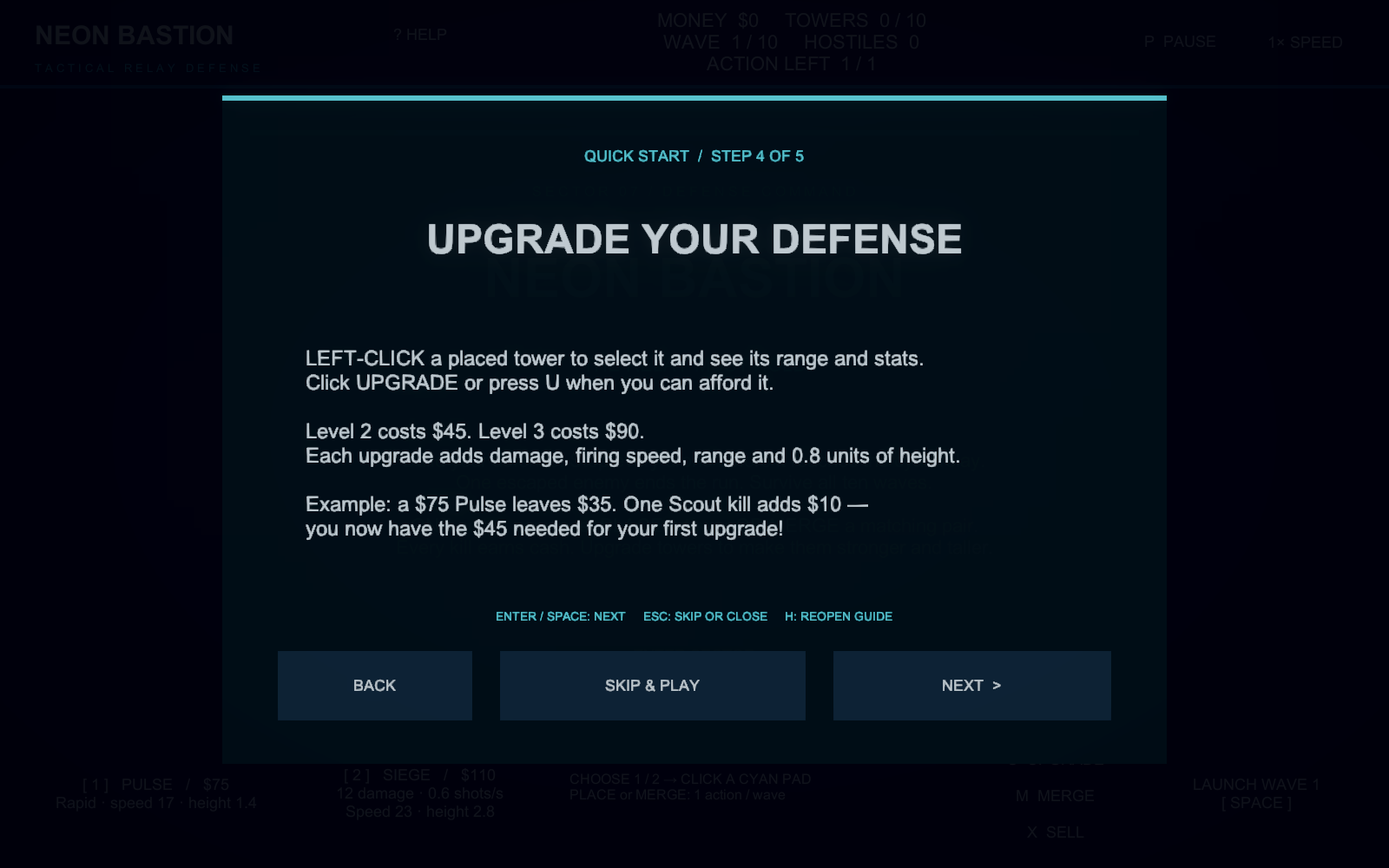
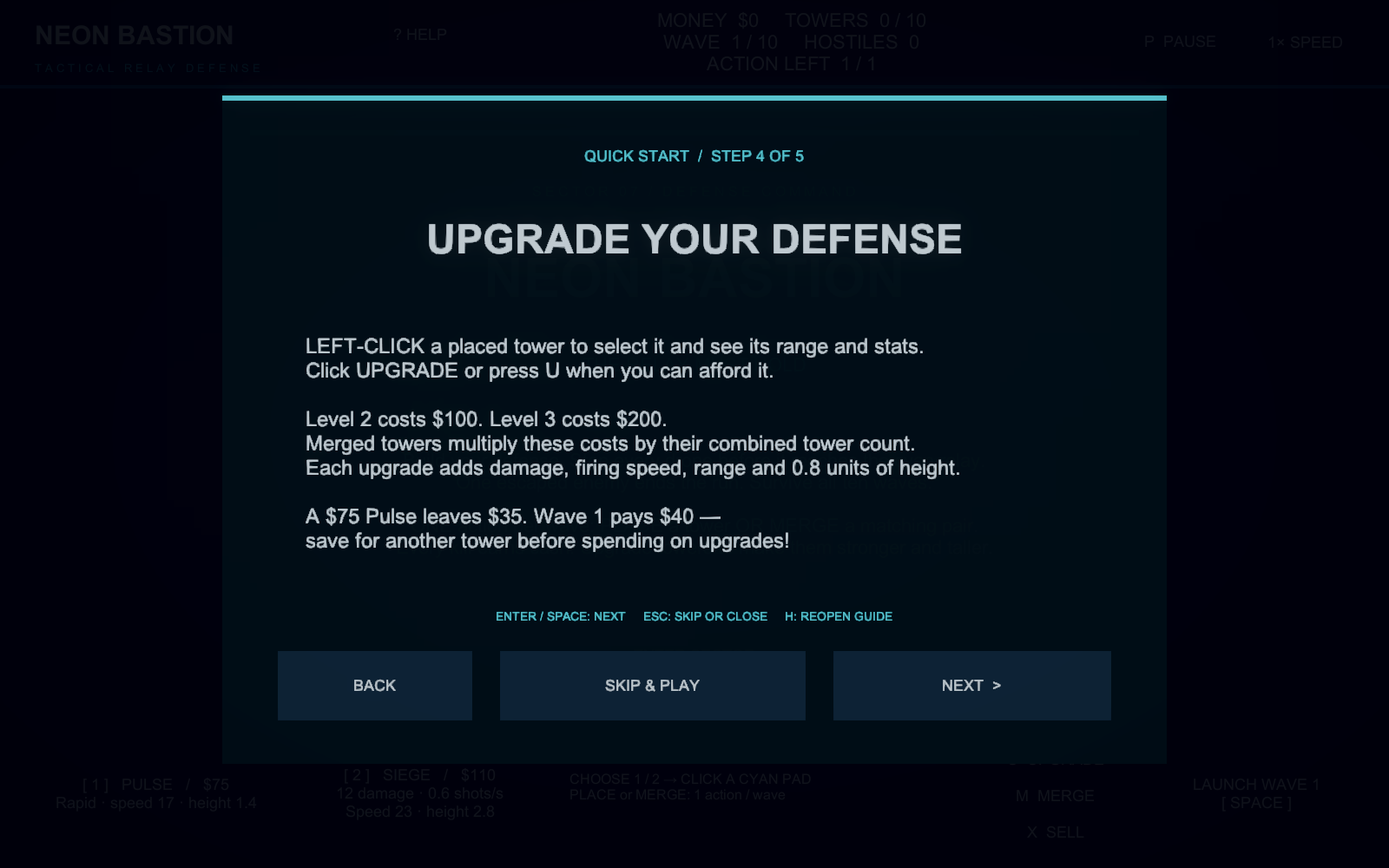
Tighten kill rewards and make tower upgrades a saving decision

Changed region(s): [[0.2188, 0.372, 0.6875, 0.651]]

diff --git a/Assets/Defense/Editor/DefenseValidation.cs b/Assets/Defense/Editor/DefenseValidation.cs
@@ -81,10 +81,10 @@ public static class DefenseValidation
                         "Tutorial explicitly explains selecting and left-clicking a cyan pad to place a tower");
                     back.onClick.Invoke();Check(game.HUD.TutorialPage==0,"Tutorial Back returns to the previous explanation");
                     next.onClick.Invoke();next.onClick.Invoke();
-                    Check(game.HUD.TutorialPage==2 && guideText.text.Contains("$10") && guideText.text.Contains("MONEY"),
+                    Check(game.HUD.TutorialPage==2 && guideText.text.Contains("$4") && guideText.text.Contains("MONEY"),
                         "Tutorial explains kill rewards and the money display");
                     next.onClick.Invoke();
-                    Check(game.HUD.TutorialPage==3 && guideText.text.Contains("$45") && guideText.text.Contains("$90") && guideText.text.Contains("0.8"),
+                    Check(game.HUD.TutorialPage==3 && guideText.text.Contains("$100") && guideText.text.Contains("$200") && guideText.text.Contains("0.8"),
                         "Tutorial explains upgrade prices and stronger, taller towers");
                     if(Array.IndexOf(Environment.GetCommandLineArgs(),"-captureDefense")>=0) CaptureTo("TUTORIAL_PREVIEW.png");
                     next.onClick.Invoke();
@@ -127,19 +127,21 @@ public static class DefenseValidation
                     game.LaunchWave();game.enabled=false;
                     Check(game.PlacementsRemaining==0,"Launching a wave does not grant a second placement");
                     DefenseEnemy scout=game.SpawnEnemy(EnemyKind.Scout);scout.TakeDamage(1000);
-                    Check(game.Credits==45 && game.KillEarnings==10 && game.Kills==1,"Scout kill pays exactly $10");
-                    scout.TakeDamage(1000);Check(game.Credits==45 && game.Kills==1,"A defeated enemy cannot pay twice");
+                    Check(game.Credits==39 && game.KillEarnings==4 && game.Kills==1,"Scout kill pays exactly $4");
+                    scout.TakeDamage(1000);Check(game.Credits==39 && game.Kills==1,"A defeated enemy cannot pay twice");
+                    game.UpgradeSelected();Check(testTower.Level==1 && game.Credits==39,"One kill cannot fund an immediate upgrade");
+                    for(int i=0;i<24;i++) game.SpawnEnemy(EnemyKind.Scout).TakeDamage(1000);
                     float oldHeight=testTower.Height,oldDamage=testTower.Damage,oldRate=testTower.FireRate,oldRange=testTower.Range;
                     game.SelectTower(testTower);game.UpgradeSelected();
-                    Check(testTower.Level==2 && game.Credits==0,"Kill money purchases an upgrade for $45");
+                    Check(testTower.Level==2 && game.Credits==35,"Kill money purchases an upgrade for $100");
                     Check(Mathf.Abs(testTower.Height-oldHeight-.8f)<.001f && Mathf.Abs(testTower.Muzzle.parent.localPosition.y-testTower.Height)<.001f,"Upgrade visibly raises the turret and muzzle by 0.8 units");
                     Check(testTower.Damage>oldDamage && testTower.FireRate>oldRate && testTower.Range>oldRange,"Upgrade increases damage, fire rate and range");
                     DefenseEnemy runner=game.SpawnEnemy(EnemyKind.Runner),armored=game.SpawnEnemy(EnemyKind.Armored),boss=game.SpawnEnemy(EnemyKind.Siege);
                     Check(runner.Speed>scout.Speed && armored.Speed<scout.Speed && armored.MaxHealth>scout.MaxHealth,"Enemy types have different speed and HP");
-                    runner.TakeDamage(1000);Check(game.Credits==15,"Runner kill pays $15");
-                    armored.TakeDamage(1000);Check(game.Credits==40,"Armored kill pays $25");
-                    boss.TakeDamage(1000);Check(game.Credits==140 && game.KillEarnings==150,"Siege kill pays $100 and total kill earnings are tracked");
-                    Check(!game.TryPlaceAt(game.Pads[3]) && game.Credits==140,"Even ample kill money cannot bypass the one-tower limit during combat");
+                    runner.TakeDamage(1000);Check(game.Credits==40,"Runner kill pays $5");
+                    armored.TakeDamage(1000);Check(game.Credits==48,"Armored kill pays $8");
+                    boss.TakeDamage(1000);Check(game.Credits==78 && game.KillEarnings==143,"Siege kill pays $30 and total kill earnings are tracked");
+                    Check(!game.TryPlaceAt(game.Pads[3]) && game.Credits==78,"Even kill money cannot bypass the one-tower limit during combat");
                     testTower.enabled=false;game.enabled=true;Time.timeScale=10;due=now+.05;stage++;break;
                 case 1:
                     // Focused transition test only: clear scheduled enemies to exercise the wave boundary.
@@ -147,17 +149,19 @@ public static class DefenseValidation
                     if(game.State!=DefenseState.Building) { due=now+.05;return; }
                     Time.timeScale=1;game.enabled=false;
                     Check(game.Wave==1 && game.PlacementWave==2 && game.PlacementsRemaining==1,"Clearing a wave unlocks exactly one placement for the next wave");
-                    Check(game.Credits==240,"All ten training-wave kills pay correctly and there is no free wave-clear money");
+                    Check(game.Credits==118,"All ten training-wave kills pay correctly and there is no free wave-clear money");
                     game.Choose(TowerKind.Siege);Check(game.TryPlaceAt(game.Pads[3]),"Next wave permits buying one additional tower");
                     DefenseTower siege=game.SelectedTower;
                     Check(testTower.FireRate!=siege.FireRate && testTower.ProjectileSpeed!=siege.ProjectileSpeed && testTower.Height!=siege.Height,"Tower types still differ in fire rate, projectile speed and height");
                     game.SellSelected();
-                    Check(game.Credits==207 && game.Towers.Count==1 && game.PlacementsRemaining==0,"Selling refunds 70 percent but does not restore the wave allowance");
-                    Check(!game.TryPlaceAt(game.Pads[3]) && game.Credits==207,"Sell-and-rebuild cannot bypass the one-per-wave rule");
+                    Check(game.Credits==85 && game.Towers.Count==1 && game.PlacementsRemaining==0,"Selling refunds 70 percent but does not restore the wave allowance");
+                    Check(!game.TryPlaceAt(game.Pads[3]) && game.Credits==85,"Sell-and-rebuild cannot bypass the one-per-wave rule");
                     game.SelectTower(testTower);game.SellSelected();Check(game.Towers.Count==1,"Cannot strand the player by selling their only tower after using the allowance");
+                    game.LaunchWave();
+                    while(game.Credits<testTower.UpgradeCost) game.SpawnEnemy(EnemyKind.Truck).TakeDamage(10000);
                     game.UpgradeSelected();float maxHeight=testTower.Height;
-                    Check(testTower.Level==3 && game.Credits==117 && maxHeight>2.9f,"A second upgrade spends $90 and makes the tower taller again");
-                    game.UpgradeSelected();Check(testTower.Level==3 && game.Credits==117,"Maximum level cannot consume money or grow indefinitely");
+                    Check(testTower.Level==3 && game.Credits==5 && maxHeight>2.9f,"A second upgrade spends $200 and makes the tower taller again");
+                    game.UpgradeSelected();Check(testTower.Level==3 && game.Credits==5,"Maximum level cannot consume money or grow indefinitely");
                     game.LaunchWave();Check(game.PlacementsRemaining==0 && game.Wave==2,"Wave-2 launch preserves its already-used setup allowance");
                     game.StartGame();game.LaunchWave();
                     testEnemy=game.SpawnEnemy(EnemyKind.Scout);testEnemy.SetDistance(9);testEnemy.enabled=false;
@@ -167,7 +171,7 @@ public static class DefenseValidation
                     Check(projectile.Body.useGravity && !projectile.Body.isKinematic,"Projectiles use dynamic Rigidbody gravity");
                     simulatedDue=Time.time+.8f;due=now+.1;stage++;break;
                 case 2:
-                    Check(game.Kills==1 && game.Credits==120,"An actual projectile collision kills an enemy and pays its money reward");
+                    Check(game.Kills==1 && game.Credits==114,"An actual projectile collision kills an enemy and pays its money reward");
                     DefenseEnemy motorcycle=game.SpawnEnemy(EnemyKind.Motorcycle),truck=game.SpawnEnemy(EnemyKind.Truck);
                     Check(motorcycle.Speed>3.9f && motorcycle.MaxHealth==6 && truck.MaxHealth==160 && truck.Speed<1.25f,
                         "Motorcycles are fast and trucks have 160 base HP at a slower speed");
@@ -176,9 +180,9 @@ public static class DefenseValidation
                         Resources.Load<Mesh>("DefenseMeshes/Wheel")!=null,
                         "Vehicles have distinct models, fitted box hitboxes and authored wheel meshes");
                     if(Array.IndexOf(Environment.GetCommandLineArgs(),"-captureDefense")>=0) CaptureVehicles(motorcycle,truck);
-                    motorcycle.TakeDamage(10000);Check(game.Credits==140,"Motorcycle kill pays $20");
-                    truck.TakeDamage(10000);Check(game.Credits==260,"High-HP truck kill pays $120");
-                    truck.TakeDamage(10000);Check(game.Credits==260,"Truck payout cannot be claimed twice");
+                    motorcycle.TakeDamage(10000);Check(game.Credits==120,"Motorcycle kill pays $6");
+                    truck.TakeDamage(10000);Check(game.Credits==160,"High-HP truck kill pays $40");
+                    truck.TakeDamage(10000);Check(game.Credits==160,"Truck payout cannot be claimed twice");
                     int total=0,scouts=0;bool hasBike=false,hasTruck=false;
                     for(int wave=1;wave<=DefenseGame.TotalWaves;wave++)
                         foreach(EnemyKind kind in DefenseGame.WavePlan(wave))
@@ -294,13 +298,14 @@ public static class DefenseValidation
             "Merge grows real geometry and raises combat stats");
         Check(game.Credits==money && game.WaveActionsRemaining==0 && game.LastWaveAction==WaveAction.Merge,
             "Successful merge spends the wave action and no extra cash");
-        game.SpawnEnemy(EnemyKind.Truck).TakeDamage(10000);money=game.Credits;
+        while(game.Credits<target.UpgradeCost) game.SpawnEnemy(EnemyKind.Truck).TakeDamage(10000);money=game.Credits;
         game.Choose(TowerKind.Pulse);
         Check(money>=75 && !game.TryPlaceAt(game.Pads[3]) && game.Credits==money,
             "After MERGE, placing a tower is blocked even when money and a pad are available");
         DefenseTower third=TestTower(TowerKind.Pulse,5);
         Check(!game.TryMergeTowers(target,third) && third.MergedUnits==1 && game.WaveActionsRemaining==0,
             "Second merge in the same wave is blocked");
+        Check(target.UpgradeCost==400,"Two-unit merged tower charges double the level-3 upgrade price");
         game.SelectTower(target);game.UpgradeSelected();
         Check(target.Level==3 && game.WaveActionsRemaining==0,"Paid cash upgrades remain available after the wave action is used");
         Ray ray=game.View.ScreenPointToRay(game.View.WorldToScreenPoint(target.transform.position+Vector3.up*target.Height));

diff --git a/Assets/Defense/DefenseHUD.cs b/Assets/Defense/DefenseHUD.cs
@@ -23,8 +23,8 @@ public class DefenseHUD : MonoBehaviour
     private static readonly string[] TutorialBodies={
         "You start with $110.\n\nPULSE — $75: rapid fire, useful against Scouts and motorcycles.\nSIEGE — $110: 12-damage shells, one shot every 1.67 seconds.\n\nClick a tower card at the bottom, or press 1 for Pulse / 2 for Siege.\nFor your first tower, try a Pulse on the gold START HERE pad.\nWave 1 is a slower training wave; upgrades are optional.",
         "Move the pointer over a glowing CYAN HEXAGON on the board.\nLEFT-CLICK the pad to place your selected tower.\n\nPlacing a tower uses this wave's action. Choose PLACE or MERGE — ONE shared action; you cannot do both.\nRoads, unmarked ground and occupied pads cannot take a new tower.\n\nPress SPACE or LAUNCH WAVE when your defense is ready.\nClearing the wave unlocks ONE new action for the next wave.",
-        "Every defeated enemy immediately adds cash to MONEY at the top.\nWatch for the gold +$ reward above the enemy.\n\nScout $10  /  Runner $15  /  Motorcycle $20\nArmored $25  /  Siege $100  /  Truck $120\n\nSave cash to buy your next wave's tower or improve an existing one.\nUnspent money carries over. There is no free wave-clear bonus.",
-        "LEFT-CLICK a placed tower to select it and see its range and stats.\nClick UPGRADE or press U when you can afford it.\n\nLevel 2 costs $45. Level 3 costs $90.\nEach upgrade adds damage, firing speed, range and 0.8 units of height.\n\nExample: a $75 Pulse leaves $35. One Scout kill adds $10 —\nyou now have the $45 needed for your first upgrade!",
+        "Every defeated enemy immediately adds cash to MONEY at the top.\nWatch for the gold +$ reward above the enemy.\n\nScout $4  /  Runner $5  /  Motorcycle $6\nArmored $8  /  Siege $30  /  Truck $40\n\nSave cash to buy your next wave's tower or improve an existing one.\nUnspent money carries over. There is no free wave-clear bonus.",
+        "LEFT-CLICK a placed tower to select it and see its range and stats.\nClick UPGRADE or press U when you can afford it.\n\nLevel 2 costs $100. Level 3 costs $200.\nMerged towers multiply these costs by their combined tower count.\nEach upgrade adds damage, firing speed, range and 0.8 units of height.\n\nA $75 Pulse leaves $35. Wave 1 pays $40 —\nsave for another tower before spending on upgrades!",
         "ONE WAVE = ONE ACTION\nPLACE a tower OR MERGE a matching pair.\nYou CANNOT do both.\n\nHOLD a tower with the left mouse button.\nDRAG onto SAME TYPE and RELEASE.\nPulse + Pulse / Siege + Siege.\nM / MERGE is a click alternative.\n\nWave 1: buy Pulse. Wave 2: buy Pulse.\nWave 3: MERGE or buy — not both.\nBad drops use nothing. Cash upgrades\nare still allowed after either action."
 
     };

diff --git a/Assets/Defense/DefenseEnemy.cs b/Assets/Defense/DefenseEnemy.cs
@@ -24,12 +24,12 @@ public class DefenseEnemy : MonoBehaviour
         float hp;
         switch(kind)
         {
-            case EnemyKind.Runner: Speed=3.9f;hp=3;Reward=15;break;
-            case EnemyKind.Armored: Speed=1.65f;hp=12;Reward=25;break;
-            case EnemyKind.Siege: Speed=1.25f;hp=48;Reward=100;break;
-            case EnemyKind.Motorcycle: Speed=5.2f;hp=6;Reward=20;break;
-            case EnemyKind.Truck: Speed=1.05f;hp=160;Reward=120;break;
-            default: Speed=2.6f;hp=4;Reward=10;break;
+            case EnemyKind.Runner: Speed=3.9f;hp=3;Reward=5;break;
+            case EnemyKind.Armored: Speed=1.65f;hp=12;Reward=8;break;
+            case EnemyKind.Siege: Speed=1.25f;hp=48;Reward=30;break;
+            case EnemyKind.Motorcycle: Speed=5.2f;hp=6;Reward=6;break;
+            case EnemyKind.Truck: Speed=1.05f;hp=160;Reward=40;break;
+            default: Speed=2.6f;hp=4;Reward=4;break;
         }
         // A forgiving introduction; normal Scout stats apply from wave 2 onward.
         if(wave==1 && kind==EnemyKind.Scout) { Speed=2f;hp=3f; }

diff --git a/Assets/Defense/DefenseTower.cs b/Assets/Defense/DefenseTower.cs
@@ -26,7 +26,7 @@ public class DefenseTower : MonoBehaviour
     public float Height => (Kind==TowerKind.Pulse ? 1.4f : 2.8f)+.8f*(Level-1)+.65f*FusionBonus;
     public float Range => (Kind==TowerKind.Pulse ? 10.5f : 14f)+.6f*(Level-1)+Mathf.Min(3f,.6f*(MergedUnits-1));
     public float Damage => (Kind==TowerKind.Pulse ? 1.15f : 12f)*(1f+.4f*(Level-1))*MergedUnits;
-    public int UpgradeCost => 45*Level;
+    public int UpgradeCost => 100*Level*MergedUnits;
     public int ShotsFired { get; private set; }
     public Transform Muzzle { get; private set; }
     private Transform turret;

diff --git a/README.md b/README.md
@@ -43,7 +43,7 @@ Begin with one Pulse tower on the gold **START HERE** pad (left interior). Wave 
 
 ## Quick tutorial and placement overlay
 
-The guide explains five steps: choose a Pulse or Siege tower, left-click a cyan hex pad, earn cash from defeated enemies, purchase upgrades, and watch matching placed towers merge in a looping 3D demonstration. The example shows a cursor dragging one actual tower model onto another, the result growing, and the example action count changing from 1 to 0 so placement is visibly locked. It lists the tower prices and enemy payouts and gives a concrete example: a $75 Pulse leaves $35; one $10 Scout kill funds the $45 level-2 upgrade. It also explains the one-new-tower-per-wave rule and the extra damage, firing speed, range and 0.8-unit height increase from upgrades.
+The guide explains five steps: choose a Pulse or Siege tower, left-click a cyan hex pad, earn cash from defeated enemies, purchase upgrades, and watch matching placed towers merge in a looping 3D demonstration. The example shows a cursor dragging one actual tower model onto another, the result growing, and the example action count changing from 1 to 0 so placement is visibly locked. It lists the tower prices and enemy payouts and gives a concrete example: a $75 Pulse leaves $35; the opening wave earns $40, so saving for another tower matters. It also explains the one-new-tower-per-wave rule and the extra damage, firing speed, range and 0.8-unit height increase from upgrades.
 
 The guide opens from the title screen and can be reopened with **H** or **? HELP**. Opening it during play pauses the battle. Closing it restores the prior pause state and 1x/2x speed without resetting cash, towers or waves. A persistent textual overlay says **1 / 2 CHOOSE TOWER · LEFT-CLICK A CYAN PAD TO BUILD**, so placement instructions remain available after the guide closes.
 
@@ -62,7 +62,7 @@ The guide opens from the title screen and can be reopened with **H** or **? HELP
 | Damage per hit | 1.15 | 12 |
 | Range | 10.5 units | 14 units |
 
-Towers can reach level 3. Each level increases damage, fire rate, range, and actual turret height by **0.8 units**. The column extends and the firing muzzle rises; glowing collars mark upgrades. Upgrades cost $45 and $90. Selling returns 70% of the tower's total investment but never restores a used wave allowance. You cannot sell your last tower when no replacement placement remains.
+Towers can reach level 3. Each level increases damage, fire rate, range, and actual turret height by **0.8 units**. The column extends and the firing muzzle rises; glowing collars mark upgrades. Upgrades cost $100 and $200 per represented tower unit. A two-unit merged tower costs $200 and $400, so fusion does not make future upgrades cheap. Selling returns 70% of the tower's total investment but never restores a used wave allowance. You cannot sell your last tower when no replacement placement remains.
 
 ## Merge matching towers
 
@@ -80,12 +80,12 @@ Buy two towers across different waves, then **hold the left mouse button on one,
 
 | Type | Speed | Base HP | Kill reward | Role |
 | --- | --- | --- | --- | --- |
-| Scout | 2.6 units/s | 4 | $10 | Standard drone |
-| Runner | 3.9 units/s | 3 | $15 | Fast, lightly armored |
-| Armored | 1.65 units/s | 12 | $25 | Slow, durable crawler |
-| Siege | 1.25 units/s | 48 | $100 | Wave-5 elite |
-| Motorcycle | 5.2 units/s | 6 | $20 | Fast two-wheeled vehicle, introduced in wave 4 |
-| Truck | 1.05 units/s | 160 | $120 | Huge armored cargo truck, introduced in wave 5 |
+| Scout | 2.6 units/s | 4 | $4 | Standard drone |
+| Runner | 3.9 units/s | 3 | $5 | Fast, lightly armored |
+| Armored | 1.65 units/s | 12 | $8 | Slow, durable crawler |
+| Siege | 1.25 units/s | 48 | $30 | Wave-5 elite |
+| Motorcycle | 5.2 units/s | 6 | $6 | Fast two-wheeled vehicle, introduced in wave 4 |
+| Truck | 1.05 units/s | 160 | $40 | Huge armored cargo truck, introduced in wave 5 |
 
 Every destroyed monster pays immediately, with a gold `+$` popup and an updated money balance.
 

diff --git a/VALIDATION.md b/VALIDATION.md
@@ -1,6 +1,6 @@
 # Validation
 
-The game was compiled and run with Unity **6000.6.0f1** on macOS. The actual-scene validator passed **94 checks**, including a complete ten-wave win with all **522** enemies destroyed.
+The game was compiled and run with Unity **6000.6.0f1** on macOS. The actual-scene validator passed **96 checks**, including a complete ten-wave win with all **522** enemies destroyed.
 
 The campaign strategy begins with the normal $110, places towers on legal pads, buys additional towers and upgrades only when rewards make them affordable, and uses eight placement actions and two merge actions across ten waves, never both in one wave. It does not add credits, change enemy HP or speed, skip enemies, or apply test damage during the campaign. It accelerates the campaign with Unity time scaling; projectiles and enemies still use the normal fixed physics timestep. The focused tests run separately and intentionally create isolated test situations.
 
@@ -21,12 +21,12 @@ The campaign strategy begins with the normal $110, places towers on legal pads, 
 - Real projectile hits from a merged tower against a moving enemy.
 - Upgrade prices, damage/rate/range growth, actual turret and muzzle height growth, maximum level, insufficient-funds protection, selling refunds, and blocked sell-and-rebuild loopholes.
 - Distinct speed and HP values for all six enemy types, including fast motorcycles and 160-base-HP trucks.
-- Different vehicle models, fitted box colliders, authored wheel mesh availability, $20/$120 payouts, and prevention of repeat truck payouts.
+- Different vehicle models, fitted box colliders, authored wheel mesh availability, $6/$40 payouts, and prevention of repeat truck payouts.
 - Ten planned waves containing 522 enemies and more than 240 Scouts, with both new types present.
 - Wave 5 unlocking wave 6 instead of ending the campaign.
 - Dynamic Rigidbody projectiles with gravity and colliders.
 - Damage and destruction from an actual projectile collision, with a correct cash payout.
-- Exact payouts for every enemy type, prevention of double payment, and a complete accounting of campaign money.
+- Exact payouts for every enemy type, prevention of double payment, and a complete accounting of the $3,652 total campaign kill income. A single Scout cannot fund an immediate upgrade; two-unit merged towers charge double for upgrades.
 - Physical enemy position matching route progress and its reported velocity matching its speed.
 - Continuous tower fire at the expected cadence and real hits on moving enemies.
 - Pause stopping simulation, stationary enemies while paused, and the 2x setting.

diff --git a/ASSIGNMENT_NOTES.md b/ASSIGNMENT_NOTES.md
@@ -48,7 +48,7 @@ The shell then flies as a dynamic Rigidbody with gravity and continuous collisio
 ## Additional features
 
 - Ten escalating waves, much larger Scout groups, fast motorcycles and heavy truck convoys.
-- Kill-earned cash ($10 / $15 / $25 / $100 / $20 / $120), three tower levels with physical height growth, and 70% sell refunds. No free wave-clear bonus.
+- Kill-earned cash ($4 / $5 / $8 / $30 / $6 / $40), three tower levels with physical height growth, and 70% sell refunds. No free wave-clear bonus.
 - Target priority favors the enemy farthest along the route.
 - Selected-tower range indicator and hover marker for build pads.
 - Enemy health bars, projectile trails, impact particles, and gold cash popups after kills.
@@ -67,7 +67,7 @@ The original demo bounced random buggies around an arena and fired at clicked po
 
 `WaveActionsUsed` is reset for wave 1 and at each wave-clear boundary. `TryConsumeWaveAction` is the single gate used by both placement and merging, and it records `LastWaveAction`, `TotalTowersPurchased` and `TotalMerges`. Launching combat, selling, and failed drops do not restore an action. The UI says ACTION LEFT and locks both choices after either succeeds. Paid upgrades use money without consuming the wave action.
 
-`DefenseEnemy.Reward` defines the cash payout. `EnemyDestroyed` removes the enemy before awarding money, preventing double payment. `KillEarnings` supports an exact money audit. Tower upgrades spend $45 and $90, increase damage/rate/range, extend the support column and raise the actual gimbal and muzzle by 0.8 units per level. `DefenseArt.RaiseTower` adds a glowing upgrade collar. Ten normal waves therefore permit at most ten new towers in the campaign.
+`DefenseEnemy.Reward` defines the cash payout. `EnemyDestroyed` removes the enemy before awarding money, preventing double payment. `KillEarnings` supports an exact money audit. Tower upgrades spend $100 and $200 per represented tower unit, increase damage/rate/range, extend the support column and raise the actual gimbal and muzzle by 0.8 units per level. `DefenseArt.RaiseTower` adds a glowing upgrade collar. Ten normal waves therefore permit at most ten new towers in the campaign.
 
 ## Expanded traffic and campaign
 

diff --git a/WAVE_GUIDE.md b/WAVE_GUIDE.md
@@ -17,6 +17,8 @@ Each wave grants **ONE shared action: PLACE a new tower OR MERGE one matching pa
 
 **Total: 522 enemies — 291 Scout, 76 Runner, 67 Armored, 57 Motorcycle, 30 Truck, 1 Siege.**
 
-Wave 1 is a forgiving training wave: ten 3-HP Scouts moving at 2 units/second, with a 1.4-second spawn interval. A gold marker recommends a starting pad. Normal stats return in wave 2. Spawning accelerates to every 0.4 seconds in wave 10. Money comes only from kills: $10 Scout, $15 Runner, $25 Armored, $20 Motorcycle, $120 Truck, $100 Siege. The full campaign pays $10,565. HP scaling remains +12% of base per wave, making trucks 236.8 HP in wave 5 and 332.8 in wave 10.
+Wave 1 is a forgiving training wave: ten 3-HP Scouts moving at 2 units/second, with a 1.4-second spawn interval. A gold marker recommends a starting pad. Normal stats return in wave 2. Spawning accelerates to every 0.4 seconds in wave 10. Money comes only from kills: $4 Scout, $5 Runner, $8 Armored, $6 Motorcycle, $40 Truck, $30 Siege. The full campaign pays $3,652. HP scaling remains +12% of base per wave, making trucks 236.8 HP in wave 5 and 332.8 in wave 10.
 
 Build coverage before concentrating too much power in one merged tower. One winning tested route buys towers in waves 1, 2, 3, 5, 6, 7, 9 and 10, and merges in waves 4 and 8. It ends with six physical towers representing eight purchases. It buys upgrades only with earned cash. This is one proven strategy, not a guarantee for every arrangement.
+
+Economy: tower prices remain $75 / $110 and starting cash is $110. Single-tower upgrades cost $100 then $200; merged towers multiply these prices by their represented units. Prioritize coverage before upgrades. You may need to earn a few kills during a wave before affording its new tower.
